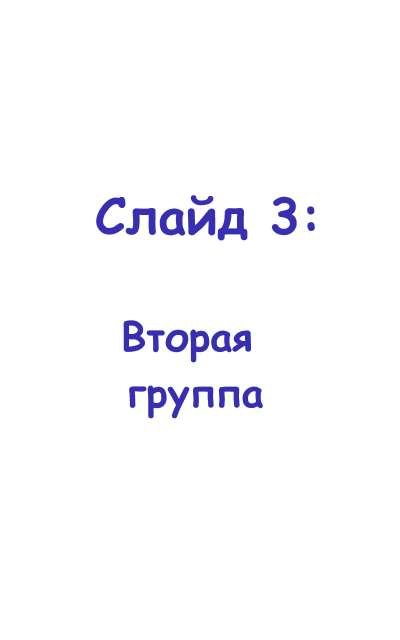
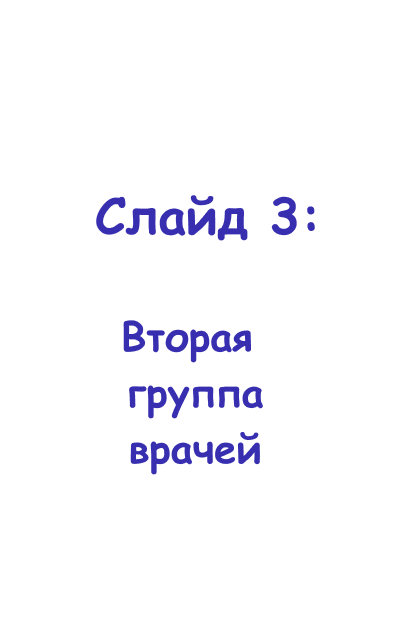
slide

Changed region(s): [[0.3, 0.6562, 0.66, 0.75]]

diff --git a/src/scripts/anton-update.js b/src/scripts/anton-update.js
@@ -232,7 +232,7 @@ document.addEventListener("DOMContentLoaded", (event) => {
     });
 
 
-    /* Свайпер До/После */
+    /* Свайпер "Команда врачей" */
 
     new Swiper('.swiper--js-init-team', {
         slidesPerView: 1,
@@ -267,6 +267,29 @@ document.addEventListener("DOMContentLoaded", (event) => {
             currentBody.classList.remove('pins__item--current');
             const newBody = tabsContainer.querySelectorAll('.pins__item')[tabIndex];
             newBody.classList.add('pins__item--current');
+        });
+    });
+
+
+    /* Pins (табы) */
+
+    document.querySelectorAll('.team-preview__handler').forEach((tab) => {
+        tab.addEventListener('click', function () {
+
+            const tabsContainer = tab.closest('.team-preview');
+            const tabSiblings = Array.from(tabsContainer.querySelectorAll('.team-preview__handler'));
+            const tabIndex = tabSiblings.indexOf(tab);
+
+            /* Закладки */
+            const currentTab = tabsContainer.querySelector('.team-preview__handler--current');
+            currentTab.classList.remove('team-preview__handler--current');
+            tab.classList.add('team-preview__handler--current');
+
+            /* Тельца */
+            const currentBody = tabsContainer.querySelector('.team-preview__item--current');
+            currentBody.classList.remove('team-preview__item--current');
+            const newBody = tabsContainer.querySelectorAll('.team-preview__item')[tabIndex];
+            newBody.classList.add('team-preview__item--current');
         });
     });
 

diff --git a/src/styles/_team-preview.css b/src/styles/_team-preview.css
@@ -54,6 +54,8 @@
             height: 100%;
             opacity: 0;
             visibility: hidden;
+            transition: opacity 300ms ease,
+                        visibility 300ms ease;
         }
 
         .team-preview__item--current {
